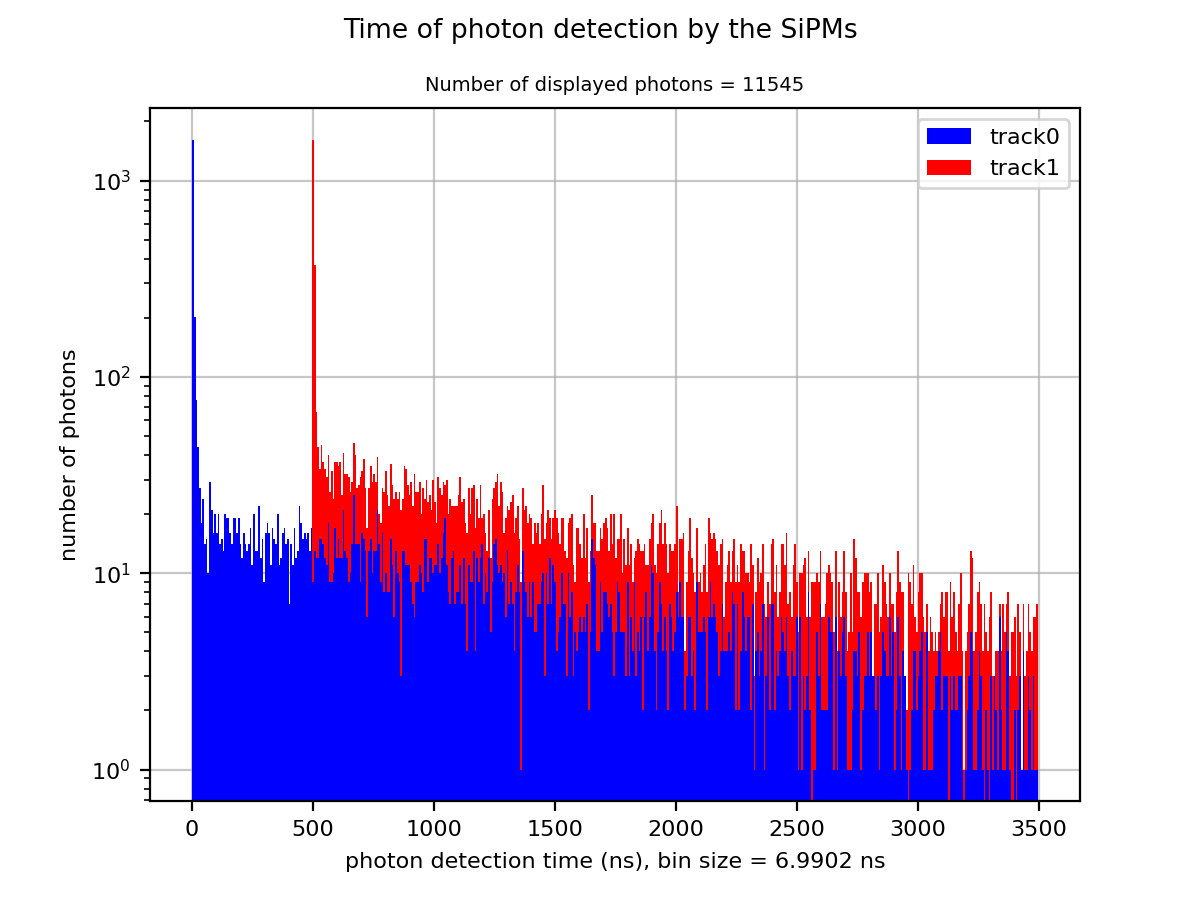
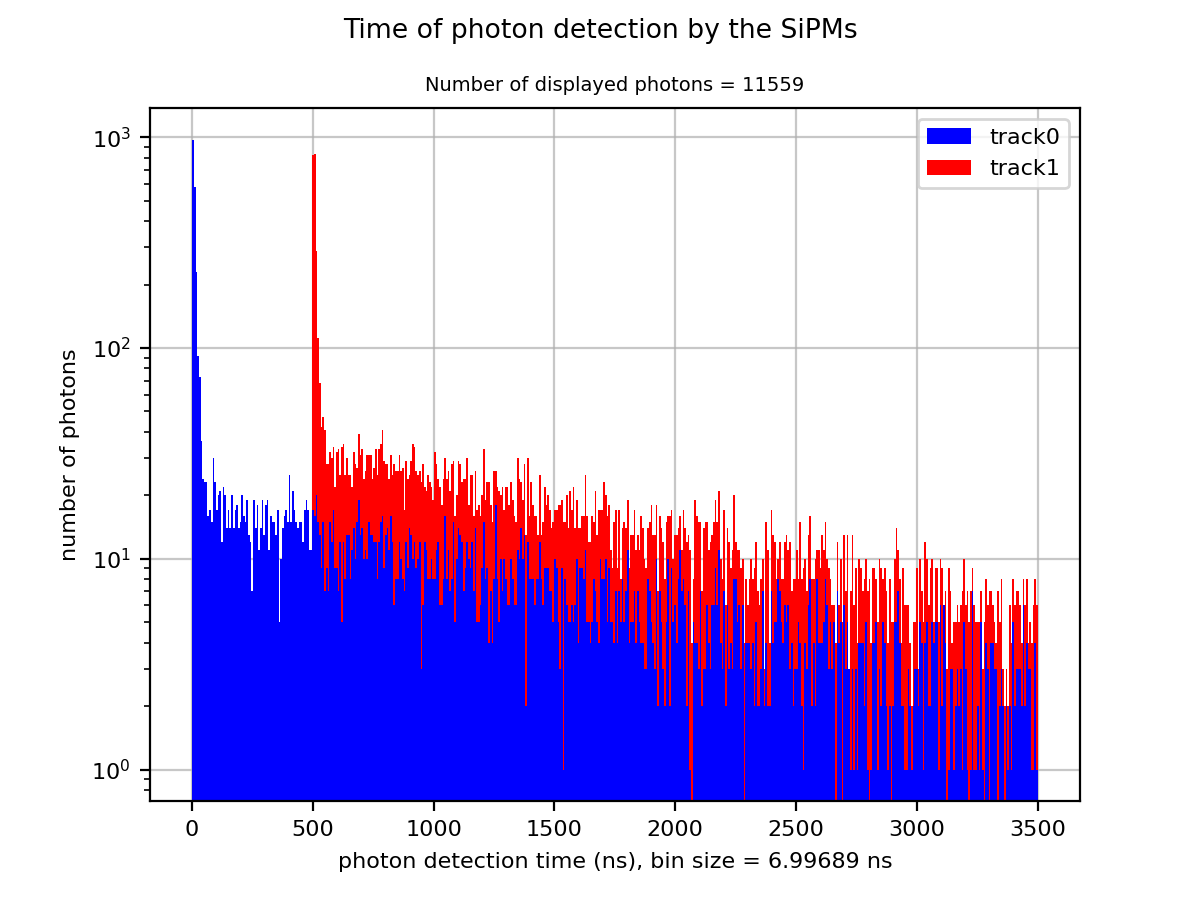
Fix short tau value

diff --git a/ConfigFiles/Driver.py b/ConfigFiles/Driver.py
@@ -243,7 +243,7 @@ def Drive(config):
 
     # Implement scintillation time delays
     alpha = 0.3
-    shortTau = 1e-9
+    shortTau = 6e-9
     longTau = 1.6e-6
     randSeed = 314
     rng = np.random.default_rng(randSeed)
